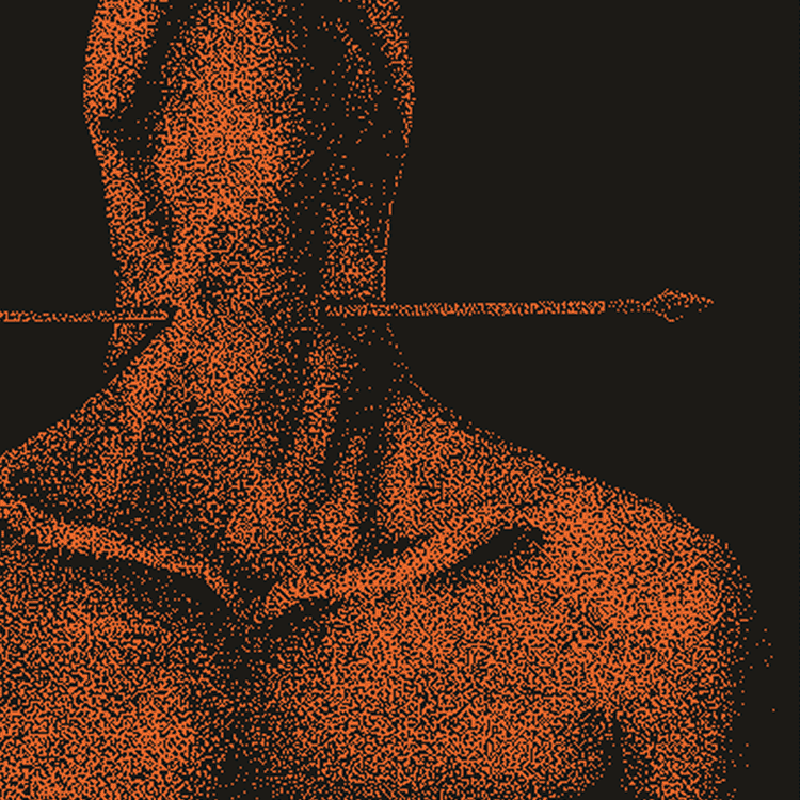
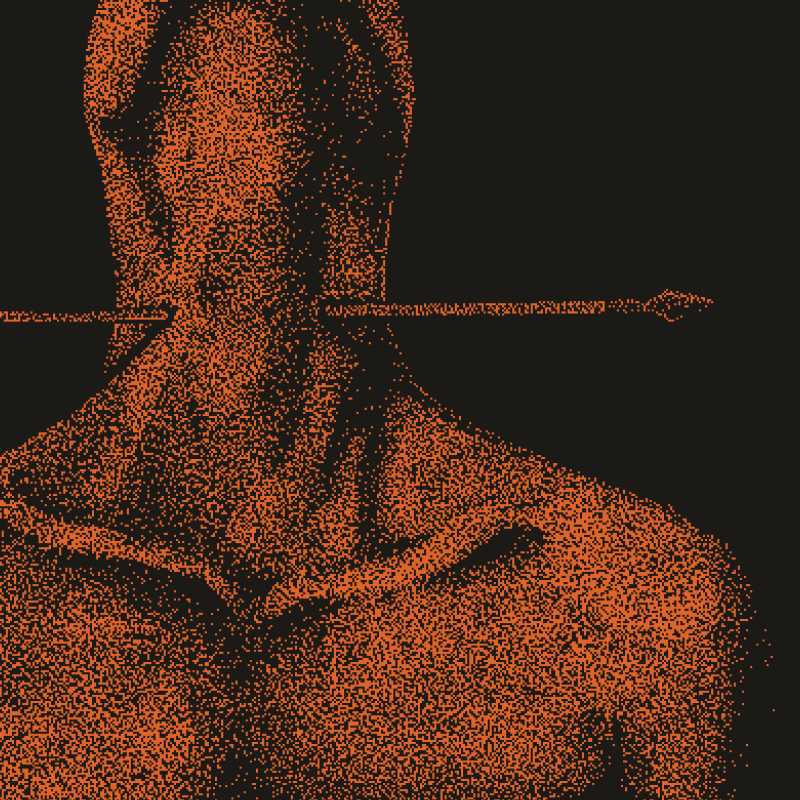
Repasse DA 15/07 : typo Instrument Serif + Roboto Mono partout, en-tête épuré, illustrations HD
- Jacquard 12 et VT323 retirés (verdicts, écrans de mort, registre, dé,
  mini-jeux, surprises) au profit d'Instrument Serif / Roboto Mono
- En-tête de scène sans titre : icône menu 32×32 flottante (maquette 1925:614)
- Les 5 illustrations en jeu ré-exportées depuis les composants Figma HD
  (états 800×800, rencontres 780×704) ; Geryon = démon au trône (maquette)
- Config MCP Playwright locale pointée sur le Chromium pré-installé

Claude-Session: https://claude.ai/code/session_015My4MqrUD9CADDLuz9Wdmt

Changed region(s): [[0.0, 0.0, 0.9375, 1.0], [0.4062, 0.0, 0.5312, 0.1875]]

diff --git a/aldenhar/components/Scene.tsx b/aldenhar/components/Scene.tsx
@@ -6,7 +6,7 @@ import ChoiceButton from "@/components/ChoiceButton";
 import TypedText from "@/components/TypedText";
 import DeathScreen from "@/components/DeathScreen";
 import GameMenu from "@/components/GameMenu";
-import { chapterLabel, jailerTaunt, sceneAt, tierIsFail, type Choice } from "@/lib/scene-data";
+import { jailerTaunt, sceneAt, tierIsFail, type Choice } from "@/lib/scene-data";
 import { loadRun, resetRun, saveRun, type FeedEntry, type RunState } from "@/lib/state";
 import { BESACE_SLOTS, randomRecompenseDestin, randomSoinMineur, RARITY_LABEL, type BesaceItem, type BesaceRarity } from "@/lib/besace";
 import {
@@ -504,23 +504,19 @@ export default function Scene() {
           />
         )}
 
-        {/* En-tête (Figma 221:197) : titre de chapitre à gauche, icône de menu
-            unique à droite, même position sur tous les écrans (spec §8) */}
-        <div className="relative z-[3] flex items-center justify-between px-[15px] py-[11px]">
-          <span className="text-[12px] font-medium uppercase tracking-[2.4px] text-[var(--color-ink)]">
-            {chapterLabel(step)}
-          </span>
-          <button
-            type="button"
-            aria-label="Menu"
-            onClick={() => setMenuOpen(true)}
-            className="grid size-[41px] cursor-pointer grid-cols-3 place-items-center border border-solid border-[var(--color-ink)] bg-[var(--color-bg)] p-[11px]"
-          >
-            {Array.from({ length: 9 }).map((_, i) => (
-              <span key={i} className="block size-[1.6px] bg-[var(--color-ink)]" />
-            ))}
-          </button>
-        </div>
+        {/* En-tête (repasse Figma 15/07, frame 1925:614) : plus de titre —
+            seule l'icône de menu flotte en haut à droite (32×32, position
+            fixe sur tous les écrans, spec §8), le fil défile dessous. */}
+        <button
+          type="button"
+          aria-label="Menu"
+          onClick={() => setMenuOpen(true)}
+          className="absolute top-[11px] right-[10px] z-[4] grid size-[32px] cursor-pointer grid-cols-3 place-items-center border border-solid border-[var(--color-ink)] bg-[var(--color-bg)]/80 p-[8px]"
+        >
+          {Array.from({ length: 9 }).map((_, i) => (
+            <span key={i} className="block size-[1.6px] bg-[var(--color-ink)]" />
+          ))}
+        </button>
 
         {/* Flux scrollable — tout l'historique de la run, rien ne se décharge (spec §16).
             Pendant que le dé est actif, le fil ne capte plus les taps : sinon le

diff --git a/aldenhar/app/globals.css b/aldenhar/app/globals.css
@@ -21,9 +21,9 @@
   --die-reveal: #e0632a;
 
   --font-body: "Roboto Mono", monospace;
-  --font-title: "Jacquard 12", serif;
+  --font-title: "Instrument Serif", serif;
   --font-status: "Inter", sans-serif;
-  --font-die: "VT323", monospace;
+  --font-die: "Roboto Mono", monospace;
 }
 
 body {
@@ -424,7 +424,7 @@ body {
 }
 
 /* Bannière de rencontre (Figma 221:197, redesign 13/07) : sans cadre ni
-   fond — tag centré + nom de l'adversaire en grand Jacquard orange, placés
+   fond — tag centré + nom de l'adversaire en grand Instrument Serif orange, placés
    avant l'illustration. Le combat reste la même mécanique choix + dé. */
 .combat-banner {
   display: flex;
@@ -467,7 +467,7 @@ body {
   background: color-mix(in srgb, var(--color-ink) 4%, transparent);
 }
 .registre-head {
-  font-family: var(--font-title, "Jacquard 12"), serif;
+  font-family: var(--font-title, "Instrument Serif"), serif;
   font-size: 15px;
   letter-spacing: 1.5px;
   text-align: center;
@@ -508,7 +508,7 @@ body {
 /* ═════════ Écran de mort (séquence 13/07 — précède la Relique §10) ═════════ */
 
 .death-title {
-  font-family: var(--font-title, "Jacquard 12"), serif;
+  font-family: var(--font-title, "Instrument Serif"), serif;
   font-size: 30px;
   line-height: 1.1;
   color: var(--color-accent);
@@ -516,14 +516,14 @@ body {
   animation: fadeup 0.5s steps(4) both;
 }
 .death-text {
-  font-family: var(--font-title, "Jacquard 12"), serif;
+  font-family: var(--font-title, "Instrument Serif"), serif;
   font-size: 21px;
   line-height: 1.3;
   color: var(--color-ink);
   animation: fadeup 0.5s steps(4) 0.35s both;
 }
 .death-figure {
-  font-family: var(--font-title, "Jacquard 12"), serif;
+  font-family: var(--font-title, "Instrument Serif"), serif;
   font-size: 44px;
   line-height: 1;
   color: var(--color-accent);
@@ -566,7 +566,7 @@ body {
   animation: relic-crystallize 0.9s steps(5) 0.3s both;
 }
 .relic-name {
-  font-family: var(--font-title, "Jacquard 12"), serif;
+  font-family: var(--font-title, "Instrument Serif"), serif;
   font-size: 26px;
   line-height: 1.15;
   color: var(--color-accent);

diff --git a/aldenhar/components/minigames/engines/RhythmTap.tsx b/aldenhar/components/minigames/engines/RhythmTap.tsx
@@ -65,7 +65,7 @@ export default function RhythmTap({
         const density = activeBeat >= 0 ? 0.9 : 0.15;
         bayerFill(ctx, cx - 40, cy - 40, 80, 80, density, ORANGE, null, 2);
         ctx.fillStyle = "rgba(232,223,200,0.5)";
-        ctx.font = "12px 'VT323', monospace";
+        ctx.font = "12px 'Roboto Mono', monospace";
         ctx.textAlign = "center";
         ctx.fillText("Regarde le rythme…", cx, H - 14);
         if (elapsed > totalWatch) {
@@ -82,7 +82,7 @@ export default function RhythmTap({
           bayerFill(ctx, cx - 40, cy - 40, 80, 80, 0.2, "rgba(232,223,200,0.7)", null, 3);
         }
         ctx.fillStyle = ORANGE;
-        ctx.font = "12px 'VT323', monospace";
+        ctx.font = "12px 'Roboto Mono', monospace";
         ctx.textAlign = "center";
         ctx.fillText(`tape le rythme (${tapIndex}/${config.beats})`, cx, H - 14);
         if (elapsed > beatTimes[beatTimes.length - 1] + (config.tolerance ?? 220) + 400 && !finished) {

diff --git a/aldenhar/app/layout.tsx b/aldenhar/app/layout.tsx
@@ -24,10 +24,10 @@ export default function RootLayout({
           href="https://fonts.gstatic.com"
           crossOrigin="anonymous"
         />
-        {/* Roboto Mono + Inter : thème Figma. Jacquard 12 + VT323 : verdicts, dé.
-            Instrument Serif : titres de rencontre (retour Patrick 14/07). */}
+        {/* Roboto Mono + Inter : thème Figma. Instrument Serif : titres, verdicts (DA 15/07 : Instrument Serif + Roboto Mono).
+             */}
         <link
-          href="https://fonts.googleapis.com/css2?family=Roboto+Mono:wght@400;500;700&family=Inter:wght@600&family=Jacquard+12&family=VT323&family=Instrument+Serif:ital@0;1&display=swap"
+          href="https://fonts.googleapis.com/css2?family=Roboto+Mono:wght@400;500;700&family=Inter:wght@600&family=Instrument+Serif:ital@0;1&display=swap"
           rel="stylesheet"
         />
       </head>

diff --git a/aldenhar/components/minigames/engines/HoldSteady.tsx b/aldenhar/components/minigames/engines/HoldSteady.tsx
@@ -135,7 +135,7 @@ export default function HoldSteady({
         ctx.stroke();
         if (config.clearCue && progress > 0.82) {
           ctx.fillStyle = "rgba(232,223,200,0.6)";
-          ctx.font = "12px 'VT323', monospace";
+          ctx.font = "12px 'Roboto Mono', monospace";
           ctx.textAlign = "center";
           ctx.fillText("elle s'éloigne…", cx, cy + 16);
         }
@@ -146,7 +146,7 @@ export default function HoldSteady({
       } else if (!finished) {
         drawBeast(ctx, W / 2, groundY - 6, 0.85, false);
         ctx.fillStyle = "rgba(232,223,200,0.5)";
-        ctx.font = "13px 'VT323', monospace";
+        ctx.font = "13px 'Roboto Mono', monospace";
         ctx.textAlign = "center";
         ctx.fillText("maintiens l'appui, ne bouge pas", W / 2, 30);
       }

diff --git a/aldenhar/components/minigames/engines/SlowSwipe.tsx b/aldenhar/components/minigames/engines/SlowSwipe.tsx
@@ -78,11 +78,11 @@ export default function SlowSwipe({
       ctx.fillStyle = performance.now() < flashUntil ? ORANGE : "rgba(232,223,200,0.7)";
       ctx.fillRect(bx - 50, H / 2 - 60, 100, 120);
       ctx.fillStyle = CHARBON;
-      ctx.font = "11px 'VT323', monospace";
+      ctx.font = "11px 'Roboto Mono', monospace";
       ctx.textAlign = "center";
       for (let i = 0; i < 5; i++) ctx.fillText("— — —", bx, H / 2 - 40 + i * 18);
       ctx.fillStyle = CREME;
-      ctx.font = "12px 'VT323', monospace";
+      ctx.font = "12px 'Roboto Mono', monospace";
       ctx.fillText(`pages : ${pagesTurned}/${config.pagesNeeded}`, W / 2, H - 14);
     }
     draw();

diff --git a/aldenhar/components/DeathScreen.tsx b/aldenhar/components/DeathScreen.tsx
@@ -7,7 +7,7 @@ import type { Relic } from "@/lib/player-memory";
  * Séquence d'écran de mort (journal Notion 13/07, précède la Relique §10) :
  *  1. le dé se brise — plus de relance possible (rendu 2D tramé en proto,
  *     les deux moitiés dérivent ; la vraie fracture 3D est notée à affiner)
- *  2. épitaphe courte (Jacquard 12) décrivant exactement comment on est mort
+ *  2. épitaphe courte (Instrument Serif) décrivant exactement comment on est mort
  *  3. dissolution en pixels plein écran, CONVERGENTE : démarre sur les 4
  *     côtés simultanément et progresse vers le centre
  *  4. chiffres de run : Jour atteint, rencontres survécues

diff --git a/aldenhar/components/minigames/engines/SteadyCaress.tsx b/aldenhar/components/minigames/engines/SteadyCaress.tsx
@@ -68,7 +68,7 @@ export default function SteadyCaress({
       const breathe = (Math.sin(breathT * (goodRhythm ? 2.4 : 1)) + 1) / 2;
       bayerFill(ctx, W / 2 - 60, H / 2 - 40, 120, 80, 0.3 + breathe * 0.3, ORANGE, null, 3);
       ctx.fillStyle = "rgba(232,223,200,0.5)";
-      ctx.font = "12px 'VT323', monospace";
+      ctx.font = "12px 'Roboto Mono', monospace";
       ctx.textAlign = "center";
       ctx.fillText("glisse lentement, régulièrement", W / 2, H - 14);
       if (goodElapsed >= config.durationMs && !finished) {

diff --git a/aldenhar/components/minigames/engines/DialAlign.tsx b/aldenhar/components/minigames/engines/DialAlign.tsx
@@ -185,7 +185,7 @@ export default function DialAlign({
       if (need > 0) {
         turnsDone = cumulative / (Math.PI * 2);
         ctx.fillStyle = "rgba(232,223,200,0.5)";
-        ctx.font = "12px 'VT323', monospace";
+        ctx.font = "12px 'Roboto Mono', monospace";
         ctx.textAlign = "center";
         ctx.fillText(`tours : ${Math.floor(turnsDone)} / ${config.turnsNeeded}`, cx, H - 14);
         if (turnsDone >= (config.turnsNeeded ?? 0) && !finished) {

diff --git a/aldenhar/components/minigames/engines/SequenceExecute.tsx b/aldenhar/components/minigames/engines/SequenceExecute.tsx
@@ -90,7 +90,7 @@ export default function SequenceExecute({
           bayerFill(ctx, p.x - 18, p.y - 18, 36, 36, done ? 0.15 : 0.5, ORANGE, null, 2);
         });
         ctx.fillStyle = "rgba(232,223,200,0.5)";
-        ctx.font = "12px 'VT323', monospace";
+        ctx.font = "12px 'Roboto Mono', monospace";
         ctx.textAlign = "center";
         ctx.fillText(`${config.reverse ? "ordre inverse" : "reproduis l'ordre"}`, W / 2, H - 14);
       }

diff --git a/aldenhar/components/minigames/engines/SingleGesture.tsx b/aldenhar/components/minigames/engines/SingleGesture.tsx
@@ -59,7 +59,7 @@ export default function SingleGesture({
       const lidY = progress * H;
       bayerFill(ctx, W / 2 - 50, 0, 100, lidY, 0.55, ORANGE, null, 2);
       ctx.fillStyle = "rgba(232,223,200,0.4)";
-      ctx.font = "12px 'VT323', monospace";
+      ctx.font = "12px 'Roboto Mono', monospace";
       ctx.textAlign = "center";
       ctx.fillText("un geste lent, de haut en bas", W / 2, H - 14);
     }

diff --git a/aldenhar/components/surprises/SurprisePreview.tsx b/aldenhar/components/surprises/SurprisePreview.tsx
@@ -154,7 +154,7 @@ function AshRainPreview() {
       ctx.fillStyle = CHARBON;
       ctx.fillRect(0, 0, 300, 160);
       ctx.fillStyle = "rgba(232,223,200,0.5)";
-      ctx.font = "12px 'VT323', monospace";
+      ctx.font = "12px 'Roboto Mono', monospace";
       ctx.textAlign = "center";
       ctx.fillText("Le couloir continue, silencieux.", 150, 80);
       for (let y = 0; y < 18; y++)
